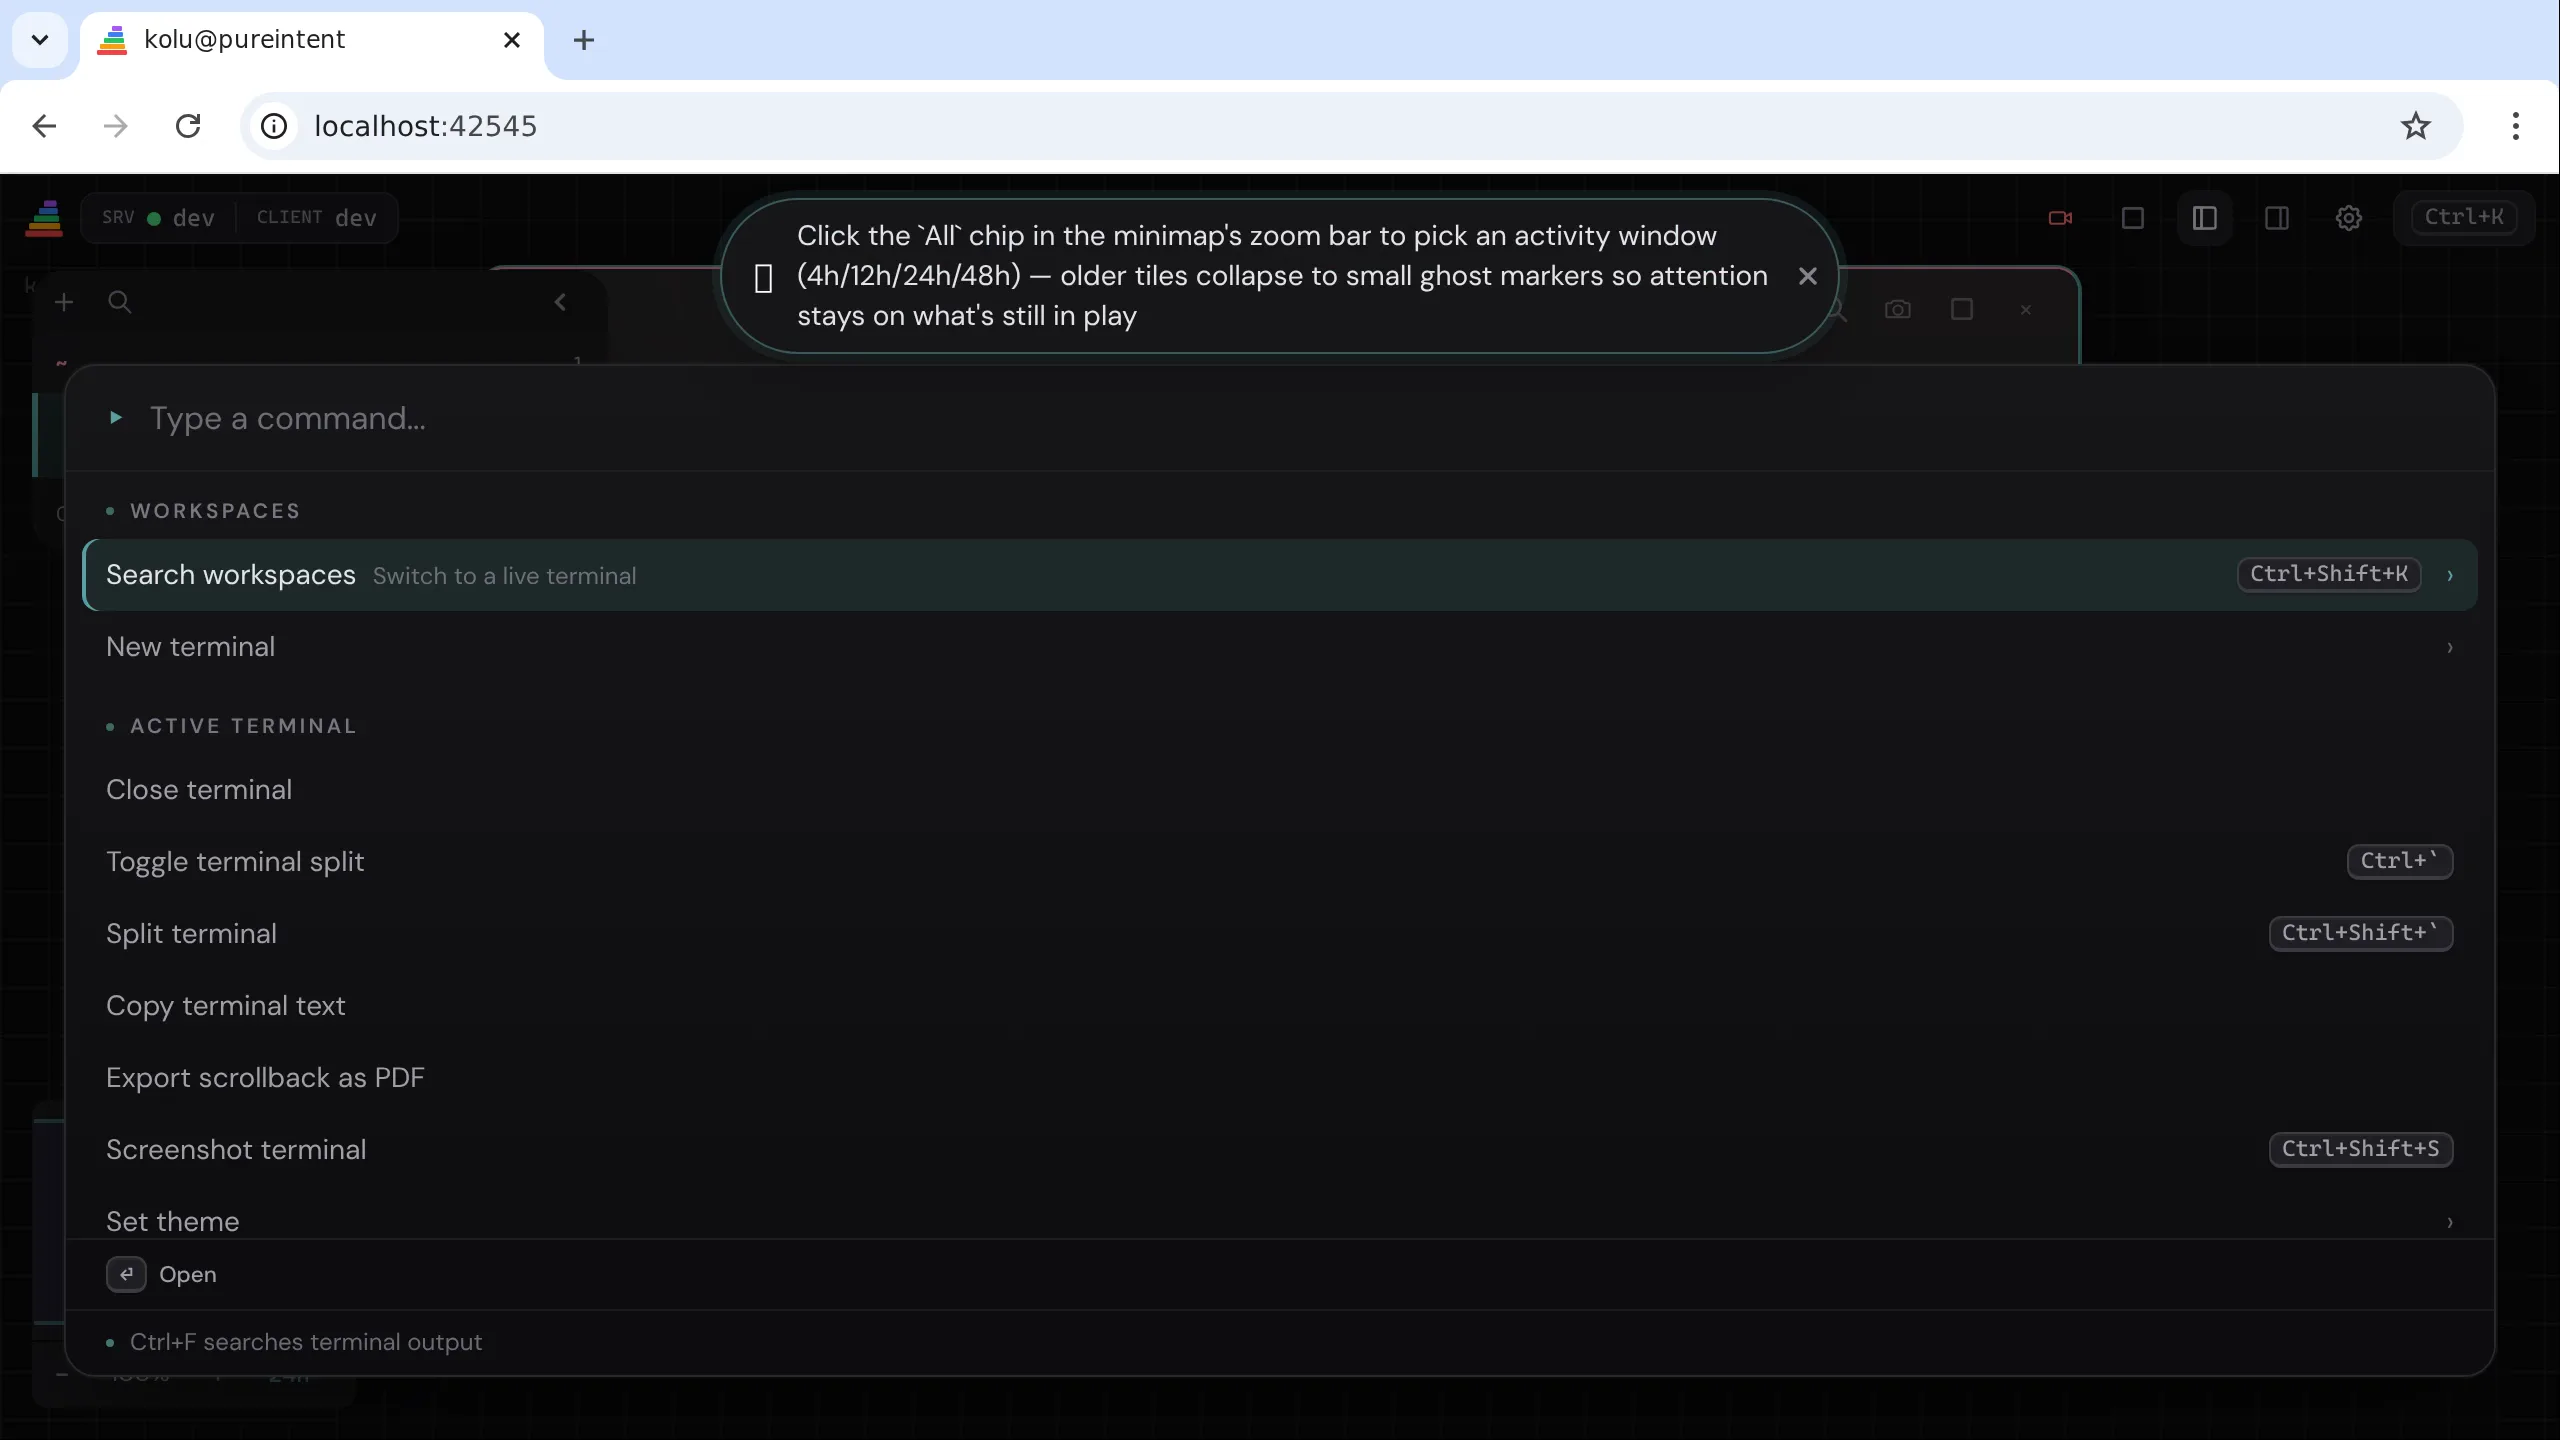
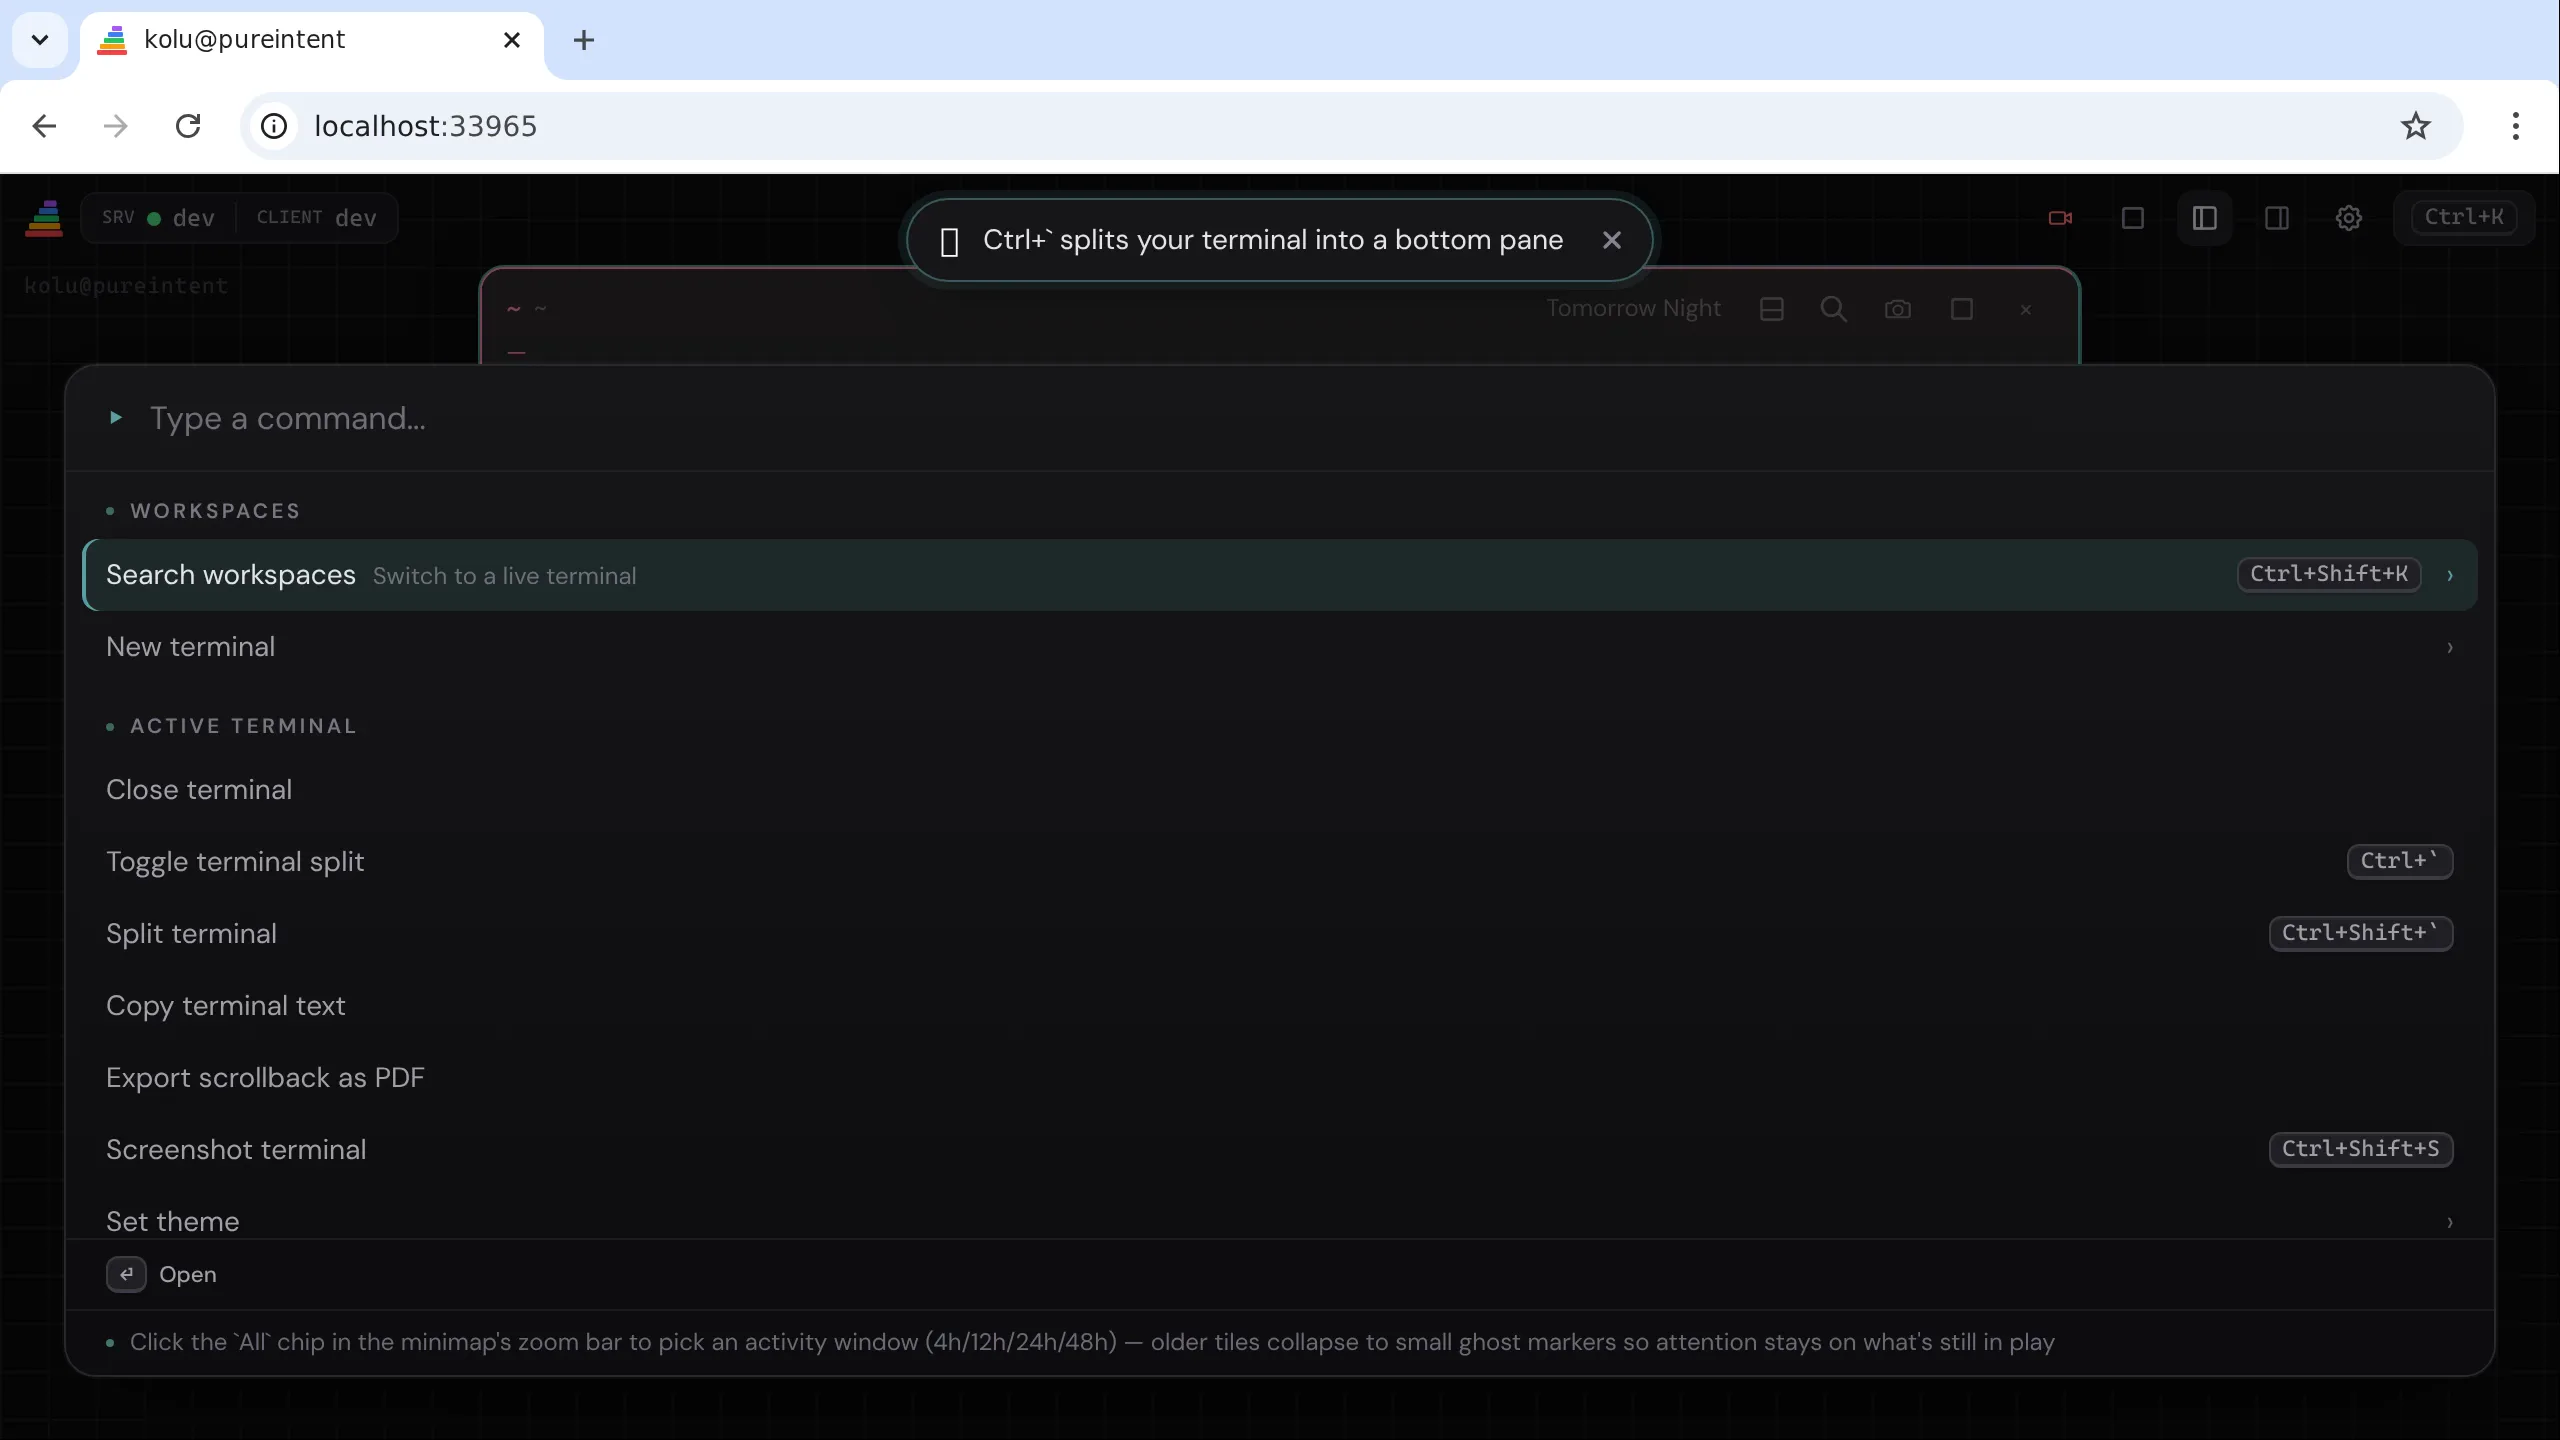
feat(screencast): clean-canvas display option — hide dock + minimap
Add a `cleanCanvas` Recording display property that takes the dock and canvas
minimap out of shot (injected CSS — a per-recording composition choice, the
surfaces still exist). Both clips re-captured: terminal-focused demo and a
welcome-dialog install clip, no leftover navigator/minimap clutter.

Changed region(s): [[0.2812, 0.1562, 0.7188, 0.25], [0.0625, 0.9062, 0.7812, 0.9375]]

diff --git a/packages/tests/screencast/recordings/display.ts b/packages/tests/screencast/recordings/display.ts
@@ -21,8 +21,15 @@ export async function applyDisplay(
       .catch(() => undefined);
   }
 
-  if (display.collapseDock) {
-    // No dedicated dock-collapse control today; left as a hook for when one
-    // lands so recordings can already declare the intent.
+  if (display.cleanCanvas) {
+    // Take the dock + minimap out of shot. Injected CSS (not a code change to
+    // the app) — a per-recording composition choice; the surfaces still exist.
+    await world.page
+      .addStyleTag({
+        content:
+          '[data-testid="dock"],[data-testid="canvas-minimap"]{display:none !important}',
+      })
+      .catch(() => undefined);
+    await world.waitForFrame();
   }
 }

diff --git a/packages/tests/screencast/recordings/types.ts b/packages/tests/screencast/recordings/types.ts
@@ -6,8 +6,11 @@ import type { KoluWorld } from "../../support/world";
 export interface RecordingDisplay {
   /** Collapse the right (Inspector/Code) panel so the content fills the frame. */
   hideRightPanel?: boolean;
-  /** Collapse the left dock (best-effort — no dedicated control yet). */
-  collapseDock?: boolean;
+  /**
+   * Hide the dock + canvas minimap for a clean, focused canvas — a marketing
+   * composition choice (the surfaces still exist; they're just out of shot).
+   */
+  cleanCanvas?: boolean;
 }
 
 export interface Recording {

diff --git a/packages/tests/screencast/recordings/new-terminal-demo.recording.ts b/packages/tests/screencast/recordings/new-terminal-demo.recording.ts
@@ -32,7 +32,7 @@ export const recording: Recording = {
   chrome: "app",
   caption:
     "Open a terminal, clone a repo, and launch an agent — kolu's core loop in one window.",
-  display: { hideRightPanel: true },
+  display: { hideRightPanel: true, cleanCanvas: true },
   async drive(world) {
     // Idempotent fixture: a fresh ~/demo/kolu each run (the terminal's $HOME is
     // this same user, so this clears what the shell is about to clone).

diff --git a/packages/tests/screencast/recordings/pwa-install.recording.ts b/packages/tests/screencast/recordings/pwa-install.recording.ts
@@ -18,6 +18,7 @@ export const recording: Recording = {
   name: "pwa-install",
   chrome: "browser",
   caption: "Pin kolu as an app — install it from the welcome.",
+  display: { cleanCanvas: true },
   async drive(world) {
     const page = world.page;
     await world.waitForReady();